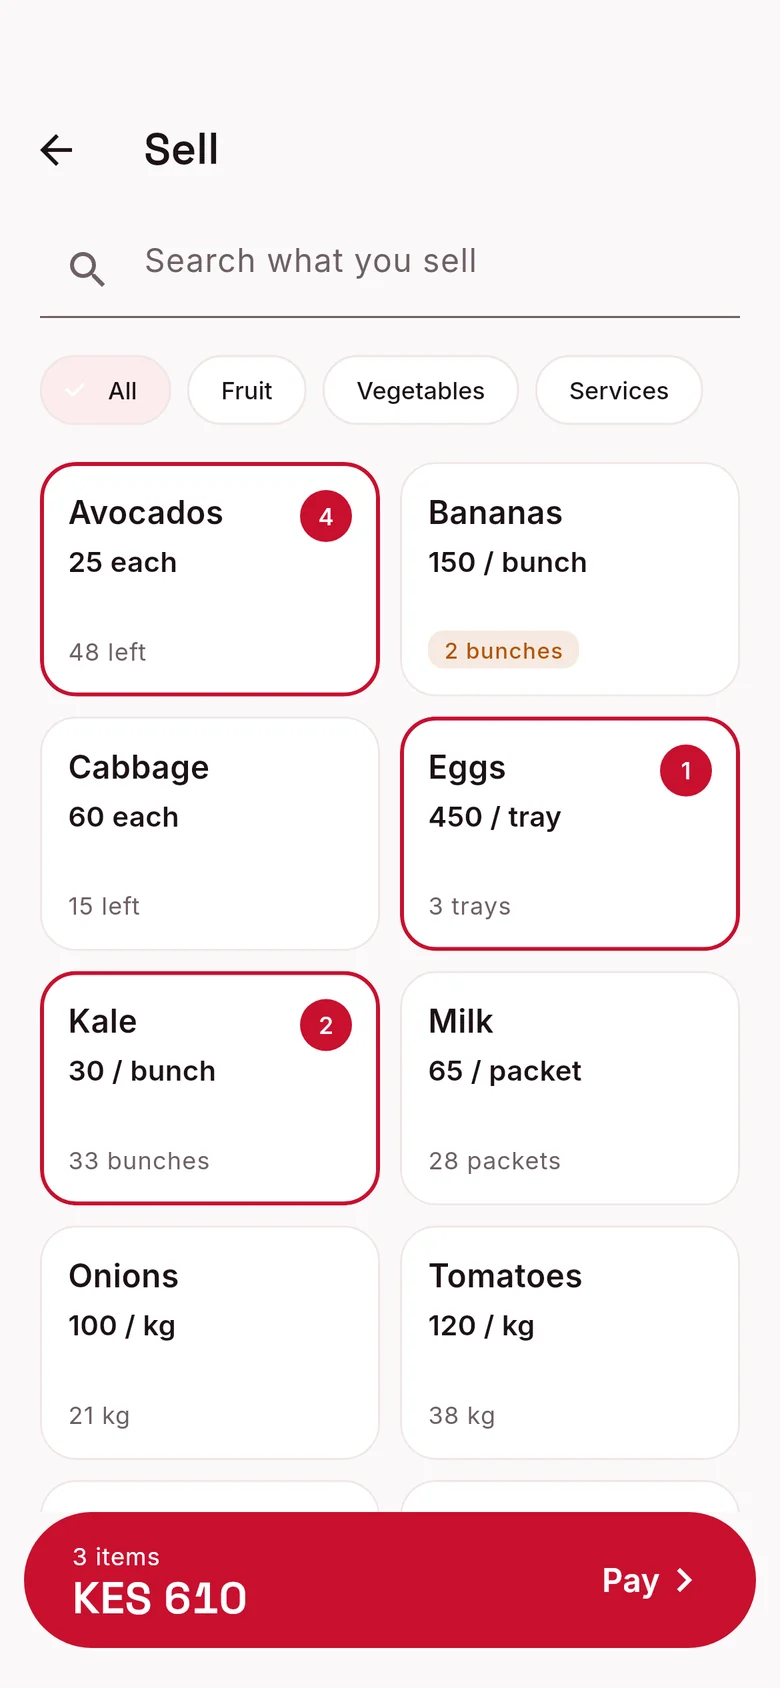
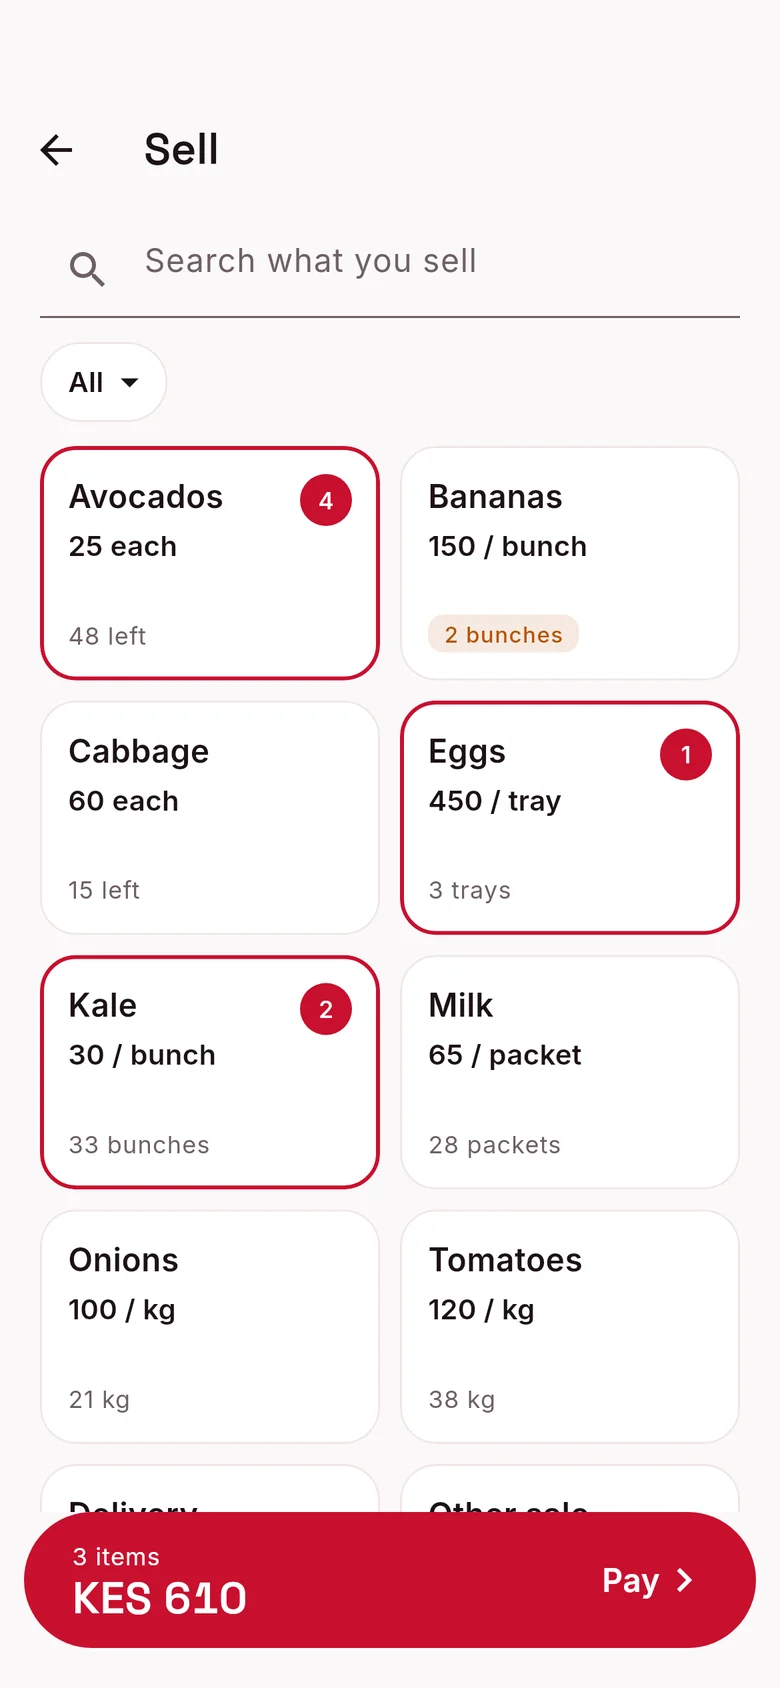
feat: many-currency screens and drop-downs in the app screens

diff --git a/src/data/site.ts b/src/data/site.ts
@@ -398,10 +398,11 @@ export interface Screen {
 }
 
 /**
- * Every app screen the site shows. The personal ones come from the app
- * design canvas; the business ones are the app's own screens, filled with
- * made-up records. All are 780 × 1688 WebP (390 × 844 at 2x). Regenerate
- * them when the app changes.
+ * Every app screen the site shows: the app's own screens, filled with
+ * made-up records (Home, Plan, Goals, Debts and Insights come from the app
+ * design canvas).
+ * All are 780 × 1688 WebP (390 × 844 at 2x). Regenerate them when the app
+ * changes.
  */
 export const screens = {
   home: {
@@ -412,7 +413,7 @@ export const screens = {
   activity: {
     file: "activity",
     name: "Activity",
-    alt: "Activity screen with a search bar, account filters and transactions grouped by day",
+    alt: "Activity screen with a search bar, drop-downs for account and type, this week's money out and in, and transactions grouped by day, one waiting for its payee's name",
   },
   plan: {
     file: "plan",
@@ -434,6 +435,16 @@ export const screens = {
     name: "Insights",
     alt: "Insights screen with what changed this month, spending by category and spending so far against last month",
   },
+  accounts: {
+    file: "accounts",
+    name: "My accounts",
+    alt: "My accounts screen with totals in USD, M-Pesa in KES, two Equity Bank accounts told apart by account number, one in KES and one in USD, and cash in SSP",
+  },
+  currencies: {
+    file: "currencies",
+    name: "Activity",
+    alt: "Activity screen with a note that 23 amounts at Equity Bank are now in its USD account, this week's totals in USD, a KES 25,000 rent payment with about USD 193.50 under it, and a USD salary",
+  },
   today: {
     file: "today",
     name: "Today",
@@ -442,7 +453,7 @@ export const screens = {
   sell: {
     file: "sell",
     name: "Sell",
-    alt: "Sell screen with a tile for each item showing its price and stock left, three items picked and the total ready to pay",
+    alt: "Sell screen with a group drop-down, a tile for each item showing its price and stock left, three items picked and the total ready to pay",
   },
   sellKeypad: {
     file: "sell-keypad",
@@ -452,12 +463,12 @@ export const screens = {
   pay: {
     file: "pay",
     name: "Pay",
-    alt: "Pay sheet listing the items with plus and minus buttons, a choice of cash, M-Pesa, bank, on credit or split, and a split of KES 200 cash now with the rest by M-Pesa",
+    alt: "Pay sheet with the items and their plus and minus buttons, and the way-to-pay menu open: cash, M-Pesa, bank, on credit or split",
   },
   receipt: {
     file: "receipt",
     name: "Receipt",
-    alt: "Sale saved with its receipt: two items, the total, paid by M-Pesa with its code, and buttons to share it as a picture, PDF or text",
+    alt: "Sale saved with its receipt: two items, the total, paid by M-Pesa with its code, Send as set to a picture, and a Share receipt button",
   },
   money: {
     file: "money",
@@ -472,7 +483,7 @@ export const screens = {
   stock: {
     file: "stock",
     name: "Stock",
-    alt: "Stock screen with the stock value, items running low, and each item with its price, cost and how much is left",
+    alt: "Stock screen with the stock value, items running low, a drop-down to show products or services, and each item with its price, cost and how much is left",
   },
   closeDay: {
     file: "close-day",
@@ -494,6 +505,12 @@ export const personalScreens: readonly Screen[] = [
   screens.goals,
   screens.debts,
   screens.insights,
+];
+
+/** Many currencies, under Personal on the features page. */
+export const currencyScreens: readonly Screen[] = [
+  screens.accounts,
+  screens.currencies,
 ];
 
 /** The business screens, on the features page. */
